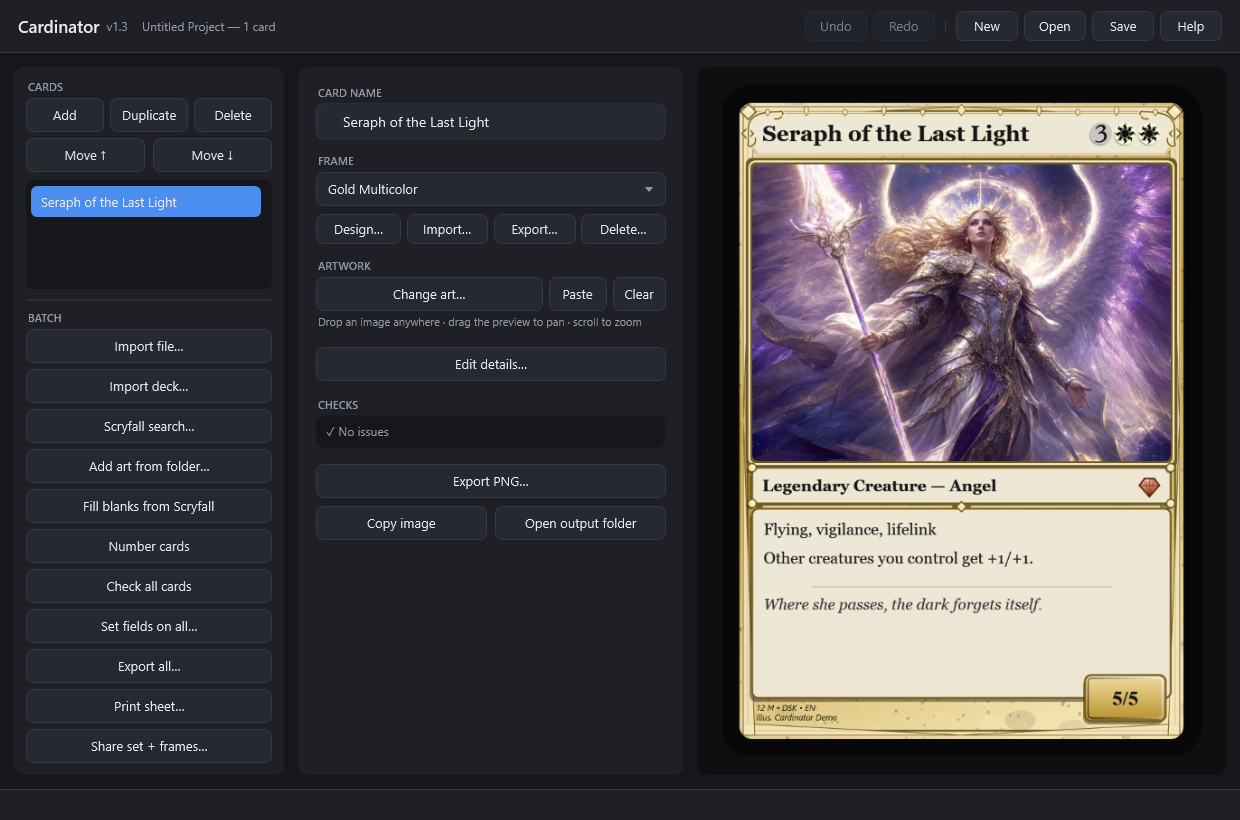
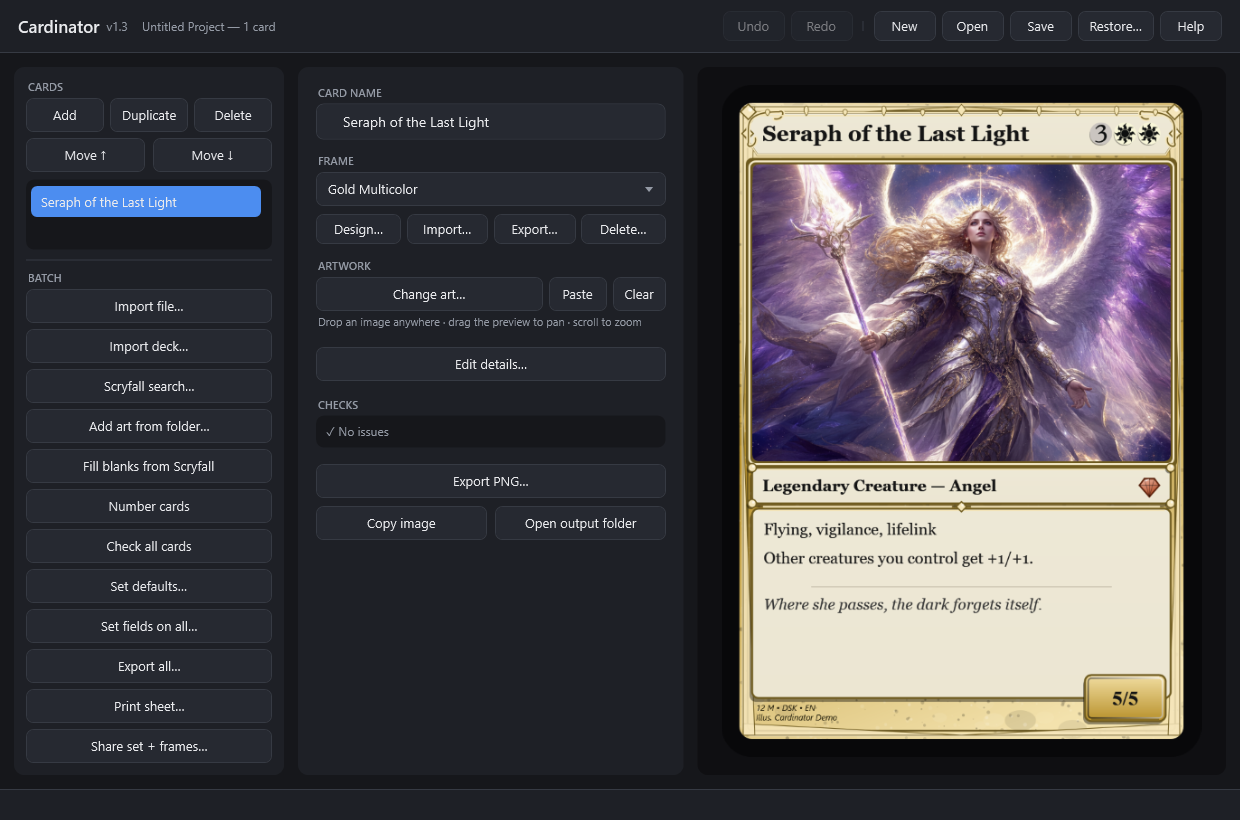
Automated save-time backups + Restore (keep user data safe)
Every Save now tucks the previous good project file into a backups/ folder
(rolling, timestamped, last 15) via the new ProjectBackup service, so a bad
save, buggy build, or upgrade problem can be rolled back. A Restore… button
(top-right) lists and reopens a backup. Complements the existing atomic writes
and corrupt-project .corrupt-backup.

+6 unit tests (324 total green). Docs + regenerated app-main screenshot (now
shows Restore… and Set defaults…). Version 1.1.3.

diff --git a/src/Cardinator/MainWindow.xaml b/src/Cardinator/MainWindow.xaml
@@ -39,6 +39,7 @@
                     <Button Content="New" Style="{StaticResource Ghost}" Click="OnNewProject" IsEnabled="{Binding NotBusy}" ToolTip="New project (Ctrl+N)" MinWidth="62" Margin="0,0,6,0"/>
                     <Button Content="Open" Style="{StaticResource Ghost}" Click="OnOpenProject" IsEnabled="{Binding NotBusy}" ToolTip="Open project (Ctrl+O)" MinWidth="62" Margin="0,0,6,0"/>
                     <Button Content="Save" Style="{StaticResource Ghost}" Click="OnSaveProject" ToolTip="Save project (Ctrl+S)" MinWidth="62" Margin="0,0,6,0"/>
+                    <Button Content="Restore…" Style="{StaticResource Ghost}" Click="OnRestoreBackup" IsEnabled="{Binding NotBusy}" ToolTip="Restore an earlier automatic backup of this set" MinWidth="62" Margin="0,0,6,0"/>
                     <Button Content="Help" Style="{StaticResource Ghost}" Click="OnHelp" ToolTip="Quick help (F1)" MinWidth="62"/>
                 </StackPanel>
             </Grid>

diff --git a/src/Cardinator/Services/ProjectBackup.cs b/src/Cardinator/Services/ProjectBackup.cs
@@ -1,0 +1,84 @@
+using System.IO;
+
+namespace Cardinator.Services;
+
+/// <summary>
+/// Keeps rolling, timestamped copies of a project file so the user's work survives a bad save, a buggy
+/// build, or an upgrade problem. On each Save we copy the <em>previous</em> good file aside into a
+/// <c>backups/</c> folder next to the project, then prune to the most recent N. This complements the two
+/// safety layers already in place: atomic writes (<see cref="IoUtil"/>) never truncate a good file
+/// mid-write, and a file that fails to load is preserved as <c>.corrupt-backup</c>.
+/// </summary>
+public static class ProjectBackup
+{
+    public const int DefaultKeep = 15;
+
+    /// <summary>The folder where a project's backups live (a <c>backups/</c> sibling of the project file).</summary>
+    public static string BackupDir(string projectPath)
+        => Path.Combine(Path.GetDirectoryName(Path.GetFullPath(projectPath)) ?? "", "backups");
+
+    /// <summary>
+    /// Copies the existing on-disk project file aside into <c>backups/</c> before it is overwritten, naming
+    /// the copy <c>&lt;name&gt;.&lt;timestamp&gt;&lt;ext&gt;</c>, then prunes to the most recent
+    /// <paramref name="keep"/>. No-op if the file doesn't exist yet (first save). Best-effort: a backup
+    /// failure must never block the actual save, so it returns the backup path or null and never throws.
+    /// </summary>
+    public static string? BackupExisting(string projectPath, string timestamp, int keep = DefaultKeep)
+    {
+        try
+        {
+            if (string.IsNullOrEmpty(projectPath) || !File.Exists(projectPath)) return null;
+
+            var dir = BackupDir(projectPath);
+            Directory.CreateDirectory(dir);
+
+            var name = Path.GetFileNameWithoutExtension(projectPath);
+            var ext = Path.GetExtension(projectPath);
+            var dest = UniquePath(Path.Combine(dir, $"{name}.{timestamp}{ext}"));
+            File.Copy(projectPath, dest);
+
+            Prune(projectPath, keep);
+            return dest;
+        }
+        catch { return null; }   // never let backup trouble block a save
+    }
+
+    /// <summary>Existing backups for a project, most-recent (by write time) first.</summary>
+    public static IReadOnlyList<string> ListBackups(string projectPath)
+    {
+        var dir = BackupDir(projectPath);
+        if (!Directory.Exists(dir)) return System.Array.Empty<string>();
+
+        var name = Path.GetFileNameWithoutExtension(projectPath);
+        var ext = Path.GetExtension(projectPath);
+        // Match only this project's backups: "<name>.<something><ext>".
+        return Directory.EnumerateFiles(dir, $"{name}.*{ext}")
+            .Select(p => new FileInfo(p))
+            .OrderByDescending(f => f.LastWriteTimeUtc)
+            .ThenByDescending(f => f.Name, System.StringComparer.Ordinal)
+            .Select(f => f.FullName)
+            .ToList();
+    }
+
+    /// <summary>Deletes all but the most recent <paramref name="keep"/> backups of this project.</summary>
+    public static void Prune(string projectPath, int keep = DefaultKeep)
+    {
+        if (keep < 0) keep = 0;
+        var backups = ListBackups(projectPath);
+        foreach (var old in backups.Skip(keep))
+            try { File.Delete(old); } catch { /* best effort */ }
+    }
+
+    private static string UniquePath(string basePath)
+    {
+        if (!File.Exists(basePath)) return basePath;
+        var dir = Path.GetDirectoryName(basePath)!;
+        var name = Path.GetFileNameWithoutExtension(basePath);
+        var ext = Path.GetExtension(basePath);
+        for (int i = 2; ; i++)
+        {
+            var candidate = Path.Combine(dir, $"{name}-{i}{ext}");
+            if (!File.Exists(candidate)) return candidate;
+        }
+    }
+}

diff --git a/tests/Cardinator.Tests/ProjectBackupTests.cs b/tests/Cardinator.Tests/ProjectBackupTests.cs
@@ -1,0 +1,95 @@
+using System;
+using System.IO;
+using System.Linq;
+using Cardinator.Services;
+
+namespace Cardinator.Tests;
+
+/// <summary>Automated save-time backups: rolling timestamped copies of the previous good project file so
+/// a bad save / buggy build / upgrade can be rolled back.</summary>
+public class ProjectBackupTests : IDisposable
+{
+    private readonly string _dir;
+    private readonly string _proj;
+
+    public ProjectBackupTests()
+    {
+        _dir = Path.Combine(Path.GetTempPath(), "cardinator_bak_" + Guid.NewGuid().ToString("N"));
+        Directory.CreateDirectory(_dir);
+        _proj = Path.Combine(_dir, "MySet.cardinator");
+    }
+
+    public void Dispose() { try { Directory.Delete(_dir, true); } catch { } }
+
+    [Fact]
+    public void BackupExisting_CopiesPreviousFileIntoBackupsFolder()
+    {
+        File.WriteAllText(_proj, "v1");
+        var backup = ProjectBackup.BackupExisting(_proj, "20260104-120000");
+
+        Assert.NotNull(backup);
+        Assert.True(File.Exists(backup!));
+        Assert.Equal("v1", File.ReadAllText(backup!));
+        Assert.Equal(ProjectBackup.BackupDir(_proj), Path.GetDirectoryName(backup));
+        Assert.Contains("MySet.20260104-120000", Path.GetFileName(backup));
+        Assert.EndsWith(".cardinator", backup);
+    }
+
+    [Fact]
+    public void BackupExisting_FirstSave_NoFileYet_IsNoOp()
+    {
+        Assert.Null(ProjectBackup.BackupExisting(_proj, "20260104-120000"));
+        Assert.False(Directory.Exists(ProjectBackup.BackupDir(_proj)));
+    }
+
+    [Fact]
+    public void BackupExisting_SameTimestamp_DoesNotClobber()
+    {
+        File.WriteAllText(_proj, "a");
+        var b1 = ProjectBackup.BackupExisting(_proj, "20260104-120000");
+        File.WriteAllText(_proj, "b");
+        var b2 = ProjectBackup.BackupExisting(_proj, "20260104-120000");   // same stamp
+
+        Assert.NotEqual(b1, b2);
+        Assert.Equal("a", File.ReadAllText(b1!));
+        Assert.Equal("b", File.ReadAllText(b2!));
+    }
+
+    [Fact]
+    public void Prune_KeepsOnlyMostRecentN()
+    {
+        // Create 5 backups with increasing timestamps; keep 3.
+        for (int i = 1; i <= 5; i++)
+        {
+            File.WriteAllText(_proj, "v" + i);
+            ProjectBackup.BackupExisting(_proj, $"20260104-12000{i}", keep: 3);
+        }
+
+        var remaining = ProjectBackup.ListBackups(_proj);
+        Assert.Equal(3, remaining.Count);
+        // Newest first: the last three timestamps survive.
+        Assert.Contains("120005", remaining[0]);
+        Assert.Contains("120003", remaining[2]);
+        Assert.DoesNotContain(remaining, b => b.Contains("120001") || b.Contains("120002"));
+    }
+
+    [Fact]
+    public void ListBackups_OnlyMatchesThisProject()
+    {
+        File.WriteAllText(_proj, "mine");
+        ProjectBackup.BackupExisting(_proj, "20260104-120000");
+
+        // A different project's backup sitting in the same folder must not be listed for this one.
+        var other = Path.Combine(_dir, "OtherSet.cardinator");
+        File.WriteAllText(other, "theirs");
+        ProjectBackup.BackupExisting(other, "20260104-120000");
+
+        var mine = ProjectBackup.ListBackups(_proj);
+        Assert.Single(mine);
+        Assert.Contains("MySet.", Path.GetFileName(mine[0]));
+    }
+
+    [Fact]
+    public void ListBackups_NoFolder_IsEmpty()
+        => Assert.Empty(ProjectBackup.ListBackups(_proj));
+}

diff --git a/src/Cardinator/MainWindow.xaml.cs b/src/Cardinator/MainWindow.xaml.cs
@@ -699,6 +699,39 @@ public partial class MainWindow : Window, INotifyPropertyChanged
 
     private void OnSaveProject(object sender, RoutedEventArgs e) => SaveProject(forceDialog: false);
 
+    /// <summary>Opens one of this set's automatic backups (made on each save) after confirming any unsaved
+    /// work. Lets the user roll back a bad save / buggy build without hunting through the file system.</summary>
+    private void OnRestoreBackup(object sender, RoutedEventArgs e)
+    {
+        if (Busy) return;
+        if (string.IsNullOrEmpty(_projectPath))
+        {
+            Status = "Save the set once first — backups are created each time you save.";
+            return;
+        }
+        var backups = ProjectBackup.ListBackups(_projectPath);
+        if (backups.Count == 0) { Status = "No backups yet — they're created each time you save."; return; }
+        if (!ConfirmDiscardIfDirty()) return;
+
+        // Show the most recent backups (newest first) and let the user pick one to open read-into-memory.
+        var dlg = new OpenFileDialog
+        {
+            Title = "Restore a backup of this set",
+            InitialDirectory = ProjectBackup.BackupDir(_projectPath),
+            Filter = "Cardinator backups (*.cardinator;*.json)|*.cardinator;*.json|All files|*.*",
+            FileName = Path.GetFileName(backups[0]),
+        };
+        if (dlg.ShowDialog() != true) return;
+
+        LoadProjectFile(dlg.FileName);
+        // Opening a backup loads it under the backup's path; point saving back at the real project file so a
+        // subsequent Save restores it in place (and itself backs up the bad version first).
+        _projectPath = "";
+        Dirty = true;
+        OnPropertyChanged(nameof(WindowTitle));
+        Status = $"Loaded backup “{Path.GetFileName(dlg.FileName)}”. Use Save to restore it as your project.";
+    }
+
     /// <summary>Saves to the remembered path when we have one; otherwise prompts for a location.</summary>
     private bool SaveProject(bool forceDialog)
     {
@@ -751,6 +784,9 @@ public partial class MainWindow : Window, INotifyPropertyChanged
                 Profile = savedProfile,
                 Cards = Cards.Select(c => CloneWithRelativeArt(c, projFolder)).ToList(),
             };
+            // Keep a rolling, timestamped copy of the previous good file before overwriting it, so a bad
+            // save / buggy build / upgrade can be rolled back (no-op on first save). Best-effort.
+            ProjectBackup.BackupExisting(path, DateTime.Now.ToString("yyyyMMdd-HHmmss"));
             project.Save(path);
             _projectPath = path;
             _projectFolder = projFolder;

diff --git a/docs/TEST_PLAN.md b/docs/TEST_PLAN.md
@@ -252,7 +252,7 @@ the set total) is intended and the User Guide already describes it accurately.
 
 ### Agreed roadmap (post-1.1.0)
 - ✅ **Backward compatibility (done, 1.1.2):** one shared `JsonCompat` options for all persisted types — case-insensitive keys, ignore unknown properties, tolerate comments/trailing-commas/quoted-numbers, null-guarded loads; `FormatVersion` stamp on projects. Golden "old format" load tests guard it (`BackwardCompatTests`). **Rule:** only ADD optional properties with defaults; never rename/retype an existing one.
-- ☐ **Automated backups (next):** keep user data safe across bugs/upgrades — snapshot the project on save (rolling, timestamped copies) so a bad write/upgrade can be rolled back; complements the existing atomic-write + corrupt-project `.corrupt-backup`.
+- ✅ **Automated backups (done, 1.1.3):** `ProjectBackup` keeps rolling timestamped copies (last 15) of the previous good project in a `backups/` folder on every save; a **Restore…** button rolls back. Complements atomic-write + corrupt-project `.corrupt-backup`. Guarded by `ProjectBackupTests`.
 - ✅ **W1 set profile (done, 1.1.1):** `SetProfile` on the project (set code / rarity / copyright / artist / symbol) + default frame; a **Set defaults…** dialog; new/imported cards inherit blanks; optional apply-to-existing; persisted + back-compat (old files without a profile load fine).
 - ☐ **Multi-sets (W8): will NOT build** — a set is already a self-contained folder; user switches via Save/Open one at a time. Decision: keep the save/load switch safe (unsaved-changes prompt already fires); no manager/recent-list UI.
 - ☐ **M9 double-faced cards (big, after W1):** model a card as one entity with a **front + back face** and a **Flip** toggle in preview/edit; export both sides; print-sheet pairs the real back. Face indicators drawn by us (no WotC assets): **generic flip arrow AND sun/moon (transform)** both selectable per card. Import of a real DFC fills both faces into one card instead of two.

diff --git a/docs/USER_GUIDE.md b/docs/USER_GUIDE.md
@@ -158,6 +158,12 @@ sheet default). The whole folder is self-contained — **move, zip or share it**
 finds its art, because art is stored as a path relative to the folder. A one-off single card needs no
 setup: the folder is only created the first time you save. (Older single-file projects still open fine.)
 
+**Your work is protected three ways.** (1) Saves are **atomic** — a crash or full disk mid-save can never
+truncate a good file. (2) Every save first tucks the previous version into a **`backups/`** folder (the last
+15, timestamped); click **Restore…** (top-right) to roll back to an earlier one if a save or an update ever
+goes wrong. (3) If a project file is ever unreadable, Cardinator preserves it as a `.corrupt-backup` instead
+of losing it. And every new version is built to **open files from every older version**.
+
 ---
 
 ## 5. Keyboard shortcuts & drag-and-drop
